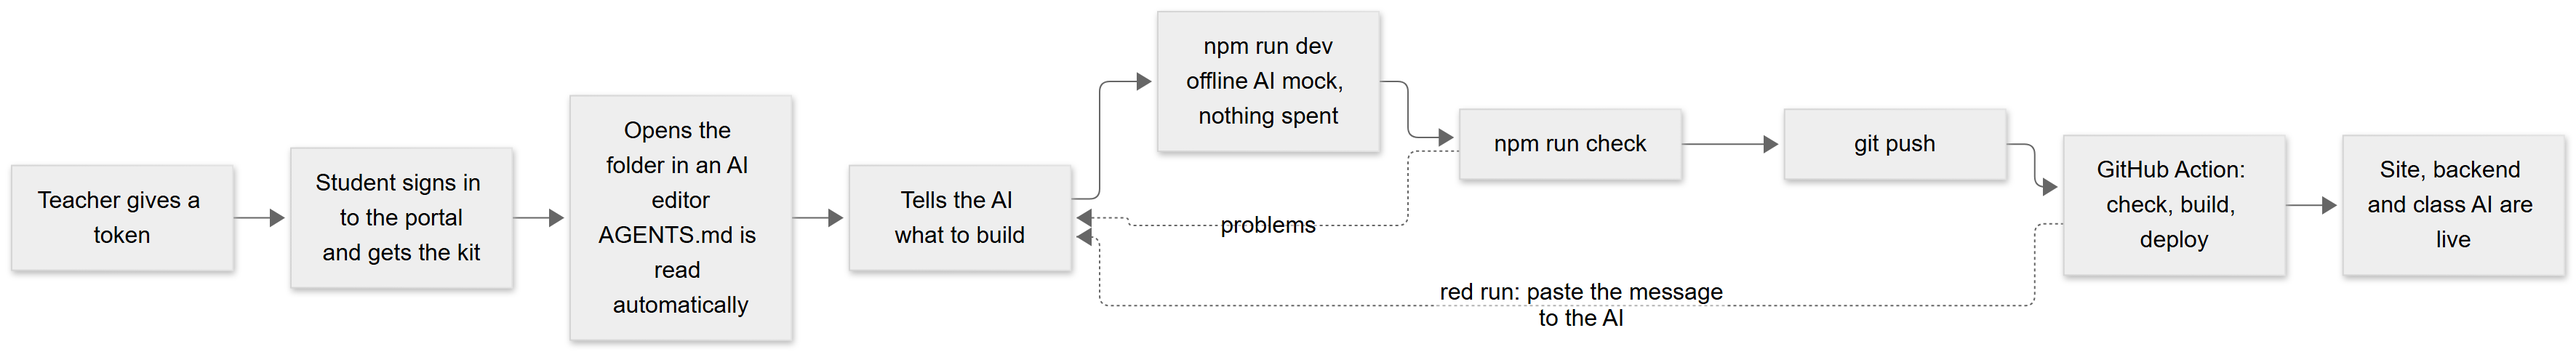
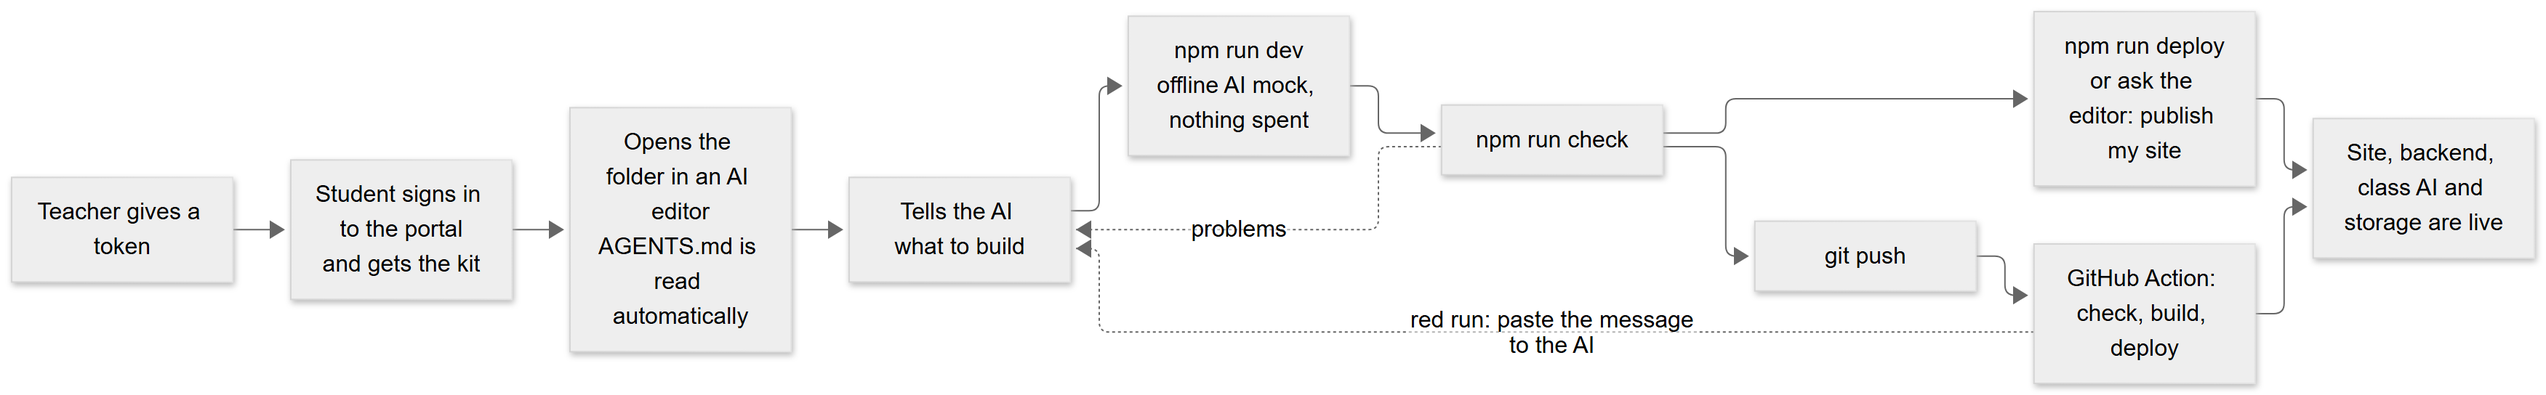
docs: technical specification, API reference, end-to-end guide and student kit guide updated for login, MCP server, deploy without GitHub and class storage

diff --git a/docs/TECHNICAL_SPECIFICATION.md b/docs/TECHNICAL_SPECIFICATION.md
@@ -1,6 +1,6 @@
 # Class Hosting Platform: Technical Specification (Release 1.0, MVP)
 
-> **This is the main technical source of truth for Release 1.0.** If another document, a comment or a message disagrees with it, this document wins and the other one is wrong and must be fixed. The companion documents ([END_TO_END.md](END_TO_END.md), [API_REFERENCE.md](API_REFERENCE.md), [AI_CONNECTOR.md](AI_CONNECTOR.md), [STUDENT_KIT.md](STUDENT_KIT.md), [../implement.md](../implement.md), [../learning.md](../learning.md)) go deeper on one area each. Numbers in section 14 are **machine-checked** against the code by `tests/test_spec.mjs` on every test run.
+> **This is the main technical source of truth for Release 1.0.** If another document, a comment or a message disagrees with it, this document wins and the other one is wrong and must be fixed. The companion documents ([END_TO_END.md](END_TO_END.md), [API_REFERENCE.md](API_REFERENCE.md), [AI_CONNECTOR.md](AI_CONNECTOR.md), [STUDENT_KIT.md](STUDENT_KIT.md), [../implement.md](../implement.md), [../learning.md](../learning.md)) go deeper on one area each. Numbers in section 14 are **machine-checked** against the code by `tests/test_spec.py` on every test run.
 
 ## 0. Document control
 
@@ -13,6 +13,7 @@
 | Student kit | version `1.4.0` (`starter/template/platform.json`), served by the portal as `starter-kit.zip` |
 | Audience | the owner/operator, future maintainers, anyone reviewing the design or the security |
 | Change rule | any change to behaviour, limits, resources or flows updates this document **in the same commit**; the machine-checked block (section 14) fails the test run if a number drifts |
+| Changes since the baseline | **2026-10-24.** Documentation diagrams are PNG images with the Mermaid source collapsed beneath (section 7.1). Student kit **1.2.0** (`npm run login`), **1.3.0** (MCP server for AI editors, `npm run deploy` without GitHub described in section 4.15), **1.3.1** (masked token prompt), **1.4.0** (class storage helpers and sample). **Class storage connector** built (section 4.14), off by default and **not yet deployed to production**. Kit 1.4.0 and the updated portal pages are published; the server side of storage is not. Local suite is now 33 steps. Everything in this row is described in the sections named; the baseline row below is kept as the historical record. |
 | Verification state at baseline | 28 local test steps pass (`node tests/run.mjs`, including the specification check), GitHub CI is green, the live smoke test (`python tests/live_smoke.py`) passes 74 checks against production, and the owner tested the full student journey end to end |
 
 ### How to read this document
@@ -71,6 +72,7 @@ SQL or server databases for students (RDS), server-side rendering, long-running 
 | F11 | Student kit, checker, local dev tools, update command, AI helper | live | `test_kit*.mjs`, `test_class_ai.*`, live smoke section I, AI evaluation |
 | F12 | Operations: alarms, versioning, backups | live | `test_template_ops.py`, live alarm test |
 | F13 | Portal user interface (teacher and student pages) | live | `test_web.mjs`, browser checks |
+| F15 | Student deploy from the computer without GitHub: `npm run login`, `npm run deploy`, and an MCP server for AI editors | **live** in kit 1.3.1 and later; the MCP server is tested by a protocol script, **not yet run inside VS Code or Antigravity by the owner** | `test_portal_cli.mjs`, `test_mcp.mjs`, `test_kit.mjs` |
 | F14 | Class storage connector (capped per-student data and files) | **built, not yet deployed** (needs `StorageEnabled=true`) | `test_storage.py`, `test_class_storage.*`, `test_kit_e2e.mjs`, `test_template_ops.py` |
 
 ---
@@ -183,9 +185,9 @@ flowchart TB
 | Path | Contents |
 |---|---|
 | `template.yaml`, `samconfig.toml` | all AWS resources managed by CloudFormation; the deployed parameter values |
-| `lambda/` | `app.py` (entry, legacy CLI, publish, archive/restore, sweeper), `portal.py` (tokens, sessions, routing for `/api/...`), `backends.py` (student functions), `gateway.py`, `domains.py`, `ai.py`, `openrouter.py` |
+| `lambda/` | `app.py` (entry, legacy CLI, publish, archive/restore, sweeper), `portal.py` (tokens, sessions, routing for `/api/...`), `backends.py` (student functions), `gateway.py`, `domains.py`, `ai.py`, `openrouter.py` Class storage: `storage.py` (rules and the API's logic) and `storage_api.py` (its Lambda handler). |
 | `web/` | portal pages (`index`, `teacher`, `student`) and modules (`teacher.js`, `student.js`, `backend.js`, `github.js`, `common.js`, `check.js`, `backend-check.js`, `zip.js`), `shared.css` |
-| `student/` | files students and the kit use: `portal-deploy.mjs`, `class_ai.py/.mjs`, workflow templates, guides, starter backend templates, legacy `deploy.mjs` |
+| `student/` | files students and the kit use: `portal-deploy.mjs`, `class_ai.py/.mjs`, workflow templates, guides, starter backend templates, legacy `deploy.mjs`; `class_storage.py/.mjs` (the storage helpers) |
 | `starter/` | the student kit: `template/`, `rules/AGENTS.md`, `build-kit.mjs`, `zip.mjs`, `eval/` (AI evaluation) |
 | `admin.mjs` | operator CLI: legacy students, `teacher-setup`, `portal-publish` |
 | `custom-domain/` | the hand-made CloudFront pieces: scripts and reference files |
@@ -648,6 +650,9 @@ flowchart LR
 Enforcement, in four layers: (1) a **working scaffold** in the right layout; (2) **rules** in `AGENTS.md` and identical copies for each editor (`GEMINI.md`, `CLAUDE.md` importing it, a Claude skill, Cursor rules, Copilot instructions, `.windsurfrules`); (3) `npm run check`, about 30 rules that fail the build (layout, backend limits equal to the platform's, non-standard-library imports, syntax errors, AI called from the browser, `localhost` URLs, `VITE_` secrets, tokens and keys in any file, tracked `.env`, missing `.gitignore`); (4) the platform validating every upload server-side.
 
 - **`class_ai`** (Python and Node, single source in `student/`): `ask(prompt, ...)`, `chat(messages, ...)`, `available()`; friendly `AiError` kinds `not_enabled`, `cap_reached` (402 and 403), `disabled` (401), `busy` (429 and 5xx, one retry), `timeout` (20 s default), `provider_error`; `default=` returns a fallback text instead of raising; `mock=` sets the offline mock's reply; offline mock when no key and not on Lambda (`AWS_LAMBDA_FUNCTION_NAME` unset); the key, prompts and answers are never printed or put in errors.
+- **`class_storage`** (Python and Node, single source in `student/`): `put/get/items/delete` and `files.*`; on the platform it uses `CLASS_STORAGE_URL` and `CLASS_STORAGE_KEY`, on the student's computer a git-ignored `.class-storage/` folder; see section 4.14. The sample backend has a `/notes` route that uses it.
+- **Deploying from the computer:** `npm run login` (once) and `npm run deploy`, and the optional MCP server; see section 4.15.
+- **Kit versions:** 1.1.0 (baseline), 1.2.0 `npm run login` and the "Deploying" rules, 1.3.0 MCP server and `.vscode/mcp.json`, 1.3.1 masked token prompt, 1.4.0 class storage.
 - **Local development:** `npm run dev` (site on 3000, backend on 8788; the site forwards `/api`), hot reload for both backends, `npm run doctor`.
 - **Kit delivery:** `node admin.mjs portal-publish` builds `starter-kit.zip` deterministically from `starter/` and publishes it with `kit-version.json`; the student page's **Start here** card offers it with repository deep links and a checklist. An optional public GitHub template repository is pending (12.3).
 - **Update:** `node tools/platform.mjs status|update [--apply] [--force]` touches only the platform-managed files listed in `platform.json`, verifies the zip against the published hash, refuses unsafe paths, protects files the student edited.
@@ -711,6 +716,50 @@ sequenceDiagram
     F->>A: files upload-url name and size
     A-->>F: presigned POST, limited to that size
     F->>D: the bytes go straight to userdata/slug/name
+```
+
+</details>
+<!-- /diagram -->
+
+### 4.15 Deploying from the student's computer: login, deploy and the MCP server (F15)
+
+The GitHub route (section 4.10) is not required. A student can publish from their computer with the same `portal-deploy.mjs`, using the same token, and an AI editor can do it for them.
+
+| Part | Specification |
+|---|---|
+| `npm run login` (`node portal-deploy.mjs login`) | asks for the token with **masked input** (raw keys: the first four characters, `mds_`, then one `*` per character, so the student can see the paste arrived; Backspace, Enter and Ctrl+C work, arrow keys are ignored); piped input is read as one line; checks it with `POST /api/student/login`; writes **only** the `PORTAL_TOKEN` line of `.env.local` and keeps every other line; refuses when `git check-ignore` says `.env.local` is not ignored; never prints the token |
+| `npm run deploy` (`node portal-deploy.mjs`) | the flow of section 4.10; the token comes from `PORTAL_TOKEN`, `.env.local` or `.env`; with no token and a terminal it offers the login prompt, without a terminal it says to run `npm run login` |
+| `node portal-deploy.mjs status` | signs in and reports the token's validity and days left; deploys nothing |
+| A rejected token | 401, 403 or 404 on sign-in gives one message: run `npm run login` with the current token (a regenerated token replaces the old one) |
+| The checker | skips `.env.local` in its secret scan (that is where the token lives) but still errors when git tracks it (`env-committed`) |
+| MCP server (`tools/mcp.mjs`) | newline-delimited JSON-RPC over stdio, dependency-free. Tools: `check_project`, `deploy` (argument `confirm` must be `true`, optional `only`; runs the check first and stops on errors) and `status`. Each runs the project's own scripts with stdin closed and a timeout (check 120 s, deploy 300 s, status 60 s), one deploy at a time; output has ANSI codes removed, `mds_` tokens masked and is capped at 8,000 characters. The token is read from `.env.local`; it is never in the editor's settings |
+| Editor setup | VS Code: the kit ships `.vscode/mcp.json` (newer VS Code versions offer to migrate it to `.mcp.json`; the owner's test showed that prompt). Antigravity: `npm run mcp-config` prints the entry with absolute paths to paste under *Manage MCP Servers, View raw config* |
+| Assistant rules | the kit's "Deploying" section: run the check, ask the student "publish now?", deploy with `confirm=true` only after a yes, read the address back; if the token is missing the student runs `npm run login` themselves; the assistant never reads `.env.local` or asks for the token |
+
+<!-- diagram:f638c537 -->
+![Diagram: 4.15 Deploying from the student's computer: login, deploy and the MCP server (F15)](diagrams/technical-specification/16-4-15-deploying-from-the-student-s-computer-login.png)
+
+<details><summary>Diagram source (Mermaid, editable; GitHub also draws it)</summary>
+
+```mermaid
+sequenceDiagram
+    participant S as Student
+    participant E as AI editor
+    participant M as tools/mcp.mjs
+    participant D as portal-deploy.mjs
+    participant P as Portal API
+    S->>D: npm run login (paste token, masked)
+    D->>P: check the token
+    D->>D: write PORTAL_TOKEN to .env.local (git-ignored)
+    S->>E: publish my site
+    E->>M: check_project
+    M-->>E: check passed
+    E->>S: publish now?
+    S->>E: yes
+    E->>M: deploy with confirm true
+    M->>D: check again, then deploy
+    D->>P: backend, then frontend
+    P-->>E: site live, backend ready
 ```
 
 </details>
@@ -795,6 +844,9 @@ Error shape: JSON `{"error": "<code or message>"}` (gateway errors: `{"error": "
 | Web | `web` | folder checks and zip builder (the zip is validated by the Lambda's own validator), dollar formatting, repository-link parsing |
 | AI helper | Python and Node | errors, retries, mock, key never printed |
 | Student kit | three steps | contents and rule copies, checker rules (about 30 fixtures), local dev servers; `platform update`; end to end deploy of the kit to the whole dev portal in Python and Node |
+| Class storage | three steps | `test_storage.py` (switch and caps, isolation between students, exact quotas, rollback, allowance, files, lifecycle, no key exposed; mutation-tested), the helpers in Python and Node against the real storage API over HTTP (`tests/storage_fixture.py`), and the template (off by default, IAM scope, retained table, private bucket) |
+| Student kit extras | steps | the MCP server driven like an editor (`test_mcp.mjs`: handshake, confirm required, a failing check blocks a deploy, token never echoed); `npm run login` (masked prompt keys, a wrong token saves nothing, the git-ignore guard) inside `test_portal_cli.mjs` |
+| Diagrams | `diagrams` | every Mermaid diagram in the documentation has a current PNG (`docs/diagrams/render.mjs` regenerates; the test needs no browser) |
 | Specification | `specification` | the machine-checked facts in section 14 equal the code |
 | Downloads and CLI | two steps | published files agree with the card; `portal-deploy.mjs` against the dev portal |
 | CloudFront functions | five steps | the real function code is extracted from the template and executed |
@@ -809,7 +861,7 @@ Techniques: in-memory fakes for S3, Lambda, CloudWatch Logs, CloudFront tenants 
 ### 7.3 Release procedure
 
 <!-- diagram:16706a27 -->
-![Diagram: 7.3 Release procedure](diagrams/technical-specification/16-7-3-release-procedure.png)
+![Diagram: 7.3 Release procedure](diagrams/technical-specification/17-7-3-release-procedure.png)
 
 <details><summary>Diagram source (Mermaid, editable; GitHub also draws it)</summary>
 
@@ -862,6 +914,8 @@ Least privilege per role; no standing secrets in students' hands; every limit en
 | Secrets | environment variables write-only; the AI management key readable by two functions through one named-secret statement; student AI keys never in any API response; a test fails on any committed key, token or email |
 | Browser | no HTML parsing of text (DOM helper); no secrets in `web/`; `rel="noopener noreferrer"` on generated links |
 | Supply chain | the kit contains no secrets or personal data (scanned); the update command verifies a hash, accepts only managed paths, refuses unsafe paths; `npm install` scripts are not run on untrusted code during evaluations |
+| Token on a student's computer | stored only in `.env.local`, written by `npm run login` after a git-ignore check; the checker errors if git tracks it; masked while typed; the MCP server and the rules keep it out of chat, logs and editor settings |
+| Class storage | isolation by key (the API builds every database and S3 key from the caller's own key), hard caps and allowance, no AWS permission for any student role, private bucket with short-lived signed links (section 4.14) |
 | Recovery | S3 versioning (30 days), DynamoDB point-in-time recovery, archived sites never auto-deleted |
 
 ### 8.3 IAM at a glance
@@ -952,6 +1006,11 @@ Stop one student's AI or backend with the teacher switches (effective within abo
 | Kit as scaffold + rules + checker + server validation | an AI cannot be trusted to follow prose alone | rules only; injecting code into students' packages |
 | `AGENTS.md` canonical with identical copies | one source, any editor | per-editor rule sets that drift |
 | Deterministic kit zip and manifest | stable hashes and safe updates | timestamps in the zip |
+| Storage isolation by an opaque key and a separate API | all student functions share one role; per-student roles would let the portal create IAM roles and delay every deploy | per-student IAM roles with `LeadingKeys` conditions |
+| DynamoDB and S3 for students, **no RDS** | on-demand, near-zero idle cost; an always-on database costs 20 to 50 times more, needs a private network, and one server would be shared | RDS or Aurora per class or per student |
+| The token is saved by a guarded login command, not typed into files | a mistyped or committed token is the main way to leak access | asking students to create `.env` by hand |
+| MCP server as an optional layer over the same scripts | works for editors that support it without a second implementation; `deploy` needs an explicit yes | MCP as the only path; a custom editor plugin |
+| Documentation diagrams as PNG plus collapsed Mermaid | readable in every viewer; one editable source with a drift test | images only; Mermaid only |
 | Tests drive real code on in-memory AWS | fast, free, deterministic; live smoke covers the rest | mocking at the call level |
 
 ### 12.2 Lessons built into the design (selected)
@@ -972,6 +1031,10 @@ Presigned URLs need a SigV4 client; cfn-lint misses circular dependencies (the c
 | 8 | Custom-domain infrastructure into CloudFormation | known gap, documented |
 | 9 | Several teacher accounts; Content-Security-Policy; "Request more runs" from the student | backlog |
 | 10 | Whether each AI editor actually loads the rule files (agents in the evaluation were told to read `AGENTS.md`) | not verified |
+| 12 | **Deploy the storage connector** (`StorageEnabled=true`), run a live smoke test of presigned file upload and the API throttle, decide whether the data table needs point-in-time recovery, then pilot | open; owner approval needed for the AWS deploy |
+| 13 | **Real-editor check of the MCP server** in VS Code and Antigravity (tested only by a protocol script); VS Code now prefers `.mcp.json` over `.vscode/mcp.json`, so the kit may need to ship `.mcp.json` | open |
+| 14 | **Re-run the AI evaluation** against the kit 1.2 to 1.4 rules (Deploying, class storage) | open |
+| 15 | `platform update` cannot add new `package.json` scripts (the file is the student's); older projects need them added by hand or a fresh kit | known gap |
 | 11 | The kit's GitHub workflow has run on a real runner in the owner's test; a wider pilot will show real-world friction | partly verified |
 
 ---
@@ -995,13 +1058,15 @@ Presigned URLs need a SigV4 client; cfn-lint misses circular dependencies (the c
 | R13 | Kit updates are safe | `tools/platform.mjs`, `starter/zip.mjs` | `test_kit_update.mjs` |
 | R14 | Alerts, recoverable files, backups | `template.yaml` | `test_template_ops.py`, live alarm test |
 | R15 | No secret or email in the repository | tests that scan the repo | `test_template_ai.py`, `test_template_ops.py`, `test_kit.mjs` |
-| R16 | This specification matches the code | section 14 and `tests/test_spec.mjs` | `test_spec.mjs` |
+| R17 | Per-student data and files, capped, isolated, switchable, never exposing a key | `storage.py`, `storage_api.py`, `class_storage.*`, `template.yaml` | `test_storage.py`, `test_class_storage.*`, `test_template_storage.py`, `test_kit_e2e.mjs` |
+| R18 | A student can deploy from their computer with one command, and an AI editor can do it with consent | `portal-deploy.mjs` (`login`, `status`), `tools/mcp.mjs`, `.vscode/mcp.json` | `test_portal_cli.mjs`, `test_mcp.mjs`, `test_kit.mjs` |
+| R16 | This specification matches the code | section 14 and `tests/test_spec.py` | `test_spec.py` |
 
 ---
 
 ## 14. Machine-checked facts
 
-`tests/test_spec.mjs` reads the JSON block below and compares every value with the code and the template. If you change a limit, a timeout, a default, the kit version or the number of test steps, update this block **and** the prose above in the same commit.
+`tests/test_spec.py` reads the JSON block below and compares every value with the code and the template. If you change a limit, a timeout, a default, the kit version or the number of test steps, update this block **and** the prose above in the same commit.
 
 ```json spec-facts
 {

diff --git a/docs/END_TO_END.md b/docs/END_TO_END.md
@@ -190,6 +190,21 @@ Many students have no AI key. The teacher can give a student's **backend** an AI
 
 Good to know (measured live): OpenRouter counts usage a few seconds to about half a minute late, so a cap can be overshot slightly; the usage meter on the student page lags the same way (it refreshes every 60 s, the server caches 20 s); a capped-out key answers **HTTP 403 "Key limit exceeded"**; a disabled key answers 401. The free `:free` models are shared with everyone on OpenRouter and returned 429 in every test, so the paid model is the default. A key can call **any** OpenRouter model, so the dollar cap, not a model list, is the control.
 
+### 3.3b Class storage connector (optional, teacher-controlled)
+
+> Architecture, limits, cost and security: **[STORAGE_CONNECTOR.md](STORAGE_CONNECTOR.md)** (and section 4.14 of the specification).
+
+Apps need to remember things. The teacher can give a student's **backend** a small private database and file area, with hard caps, so nothing has to be set up and nothing can grow without limit. It is off for everyone until the owner deploys it (`StorageEnabled`) and the teacher switches it on per student.
+
+1. Teacher page: **Storage: on** for a student who has the Backend on (their function gets `CLASS_STORAGE_URL` and `CLASS_STORAGE_KEY`). **Storage caps...** edits the database size (default 5 MB), file space (50 MB) and the operations allowance (10,000 per day). The row shows usage. **Storage: off** stops access at once; the data is kept.
+2. The student's Backend card gets a **Class storage** section: three meters (database, files, operations), a code example in their language and the rules.
+3. In code: `import class_storage as storage`, then `storage.put("scores", "alice", {...})`, `storage.get(...)`, `storage.items("scores")`, `storage.delete(...)`, `storage.files.put(...)`. The kit's sample backend has a `/notes` route. It is not SQL: records are listed by id.
+4. A revoked, expired or offline token pauses storage; going over a cap or the allowance returns a clear error the student's code can show.
+
+### 3.3c Student: deploying from the computer (no GitHub)
+
+GitHub is optional. With the kit (1.3 and later): `npm run login` once (paste the token; it shows `mds_` and one `*` per character, is checked against the portal and saved in the git-ignored `.env.local`), then `npm run check` and `npm run deploy` after each change. In VS Code or Antigravity the student can instead say "publish my site": the kit's MCP server (`tools/mcp.mjs`) runs the check, the assistant asks for a yes, then deploys. VS Code reads the kit's `.vscode/mcp.json`; for Antigravity `npm run mcp-config` prints the entry to paste. If the token is rejected or expired, `npm run login` again. The GitHub route and this route use the same token and the same `portal-deploy.mjs`.
+
 ### 3.4 Student: adding a custom domain (**Custom domain** card)
 
 Requires **Domain: on** from the teacher.
@@ -308,6 +323,13 @@ The bucket name is the physical id of `SitesBucket` in the stack. Pages already 
 3. Set `AiEnabled="true"` in `samconfig.toml` (the secret name, default model and default cap have parameters too), run the safe deploy routine, then `node admin.mjs portal-publish`.
 4. Teacher page: **AI: on** for a student with the Backend on. Verify with `python tests/live_smoke.py` (section H creates one temporary $0.01 key and deletes it).
 
+### 4.5d Class storage setup (once)
+
+1. Run the safe deploy routine with the extra parameter `StorageEnabled="true"` (add it to `parameter_overrides` in `samconfig.toml` when you are happy). Read the change set first: it should create `StudentDataTable`, `StorageApi`, `StorageFunction` and, with alerts, `StorageErrorsAlarm`, add a CORS rule on the bucket, and change `DeployFunction` only by adding `STORAGE_URL`. Nothing existing should be replaced.
+2. `node admin.mjs portal-publish` (the kit then contains the helpers; the pages already tolerate a server without storage).
+3. Teacher page: **Storage: on** for one test student, deploy the kit's sample backend as that student and call its `/notes` route. Check an upload and a download link once, because presigned file transfer is the one part the local tests cannot exercise.
+4. Do not set `StorageEnabled` back to `false` while students hold data: the table is retained but nothing serves it.
+
 Rotate: create a new management key, update the secret (the functions re-read it within 5 minutes), delete the old key at OpenRouter. The keys the platform makes are named `student:<slug>`.
 
 ### 4.6 Limits at a glance
@@ -370,6 +392,11 @@ Known residual risks: a student's public `/api` can be called by anyone, so stra
 
 | Symptom | Likely cause | Fix |
 |---|---|---|
+| `npm run login` says the token is not accepted | mistyped, expired, or replaced by a regenerated token | paste the current token; ask the teacher if unsure |
+| `npm run login` says `.env.local` is not ignored by git | the project's `.gitignore` lacks `.env.*` | add `.env` and `.env.*` to `.gitignore` (`npm run check` explains) |
+| The editor's tool server does not start | the editor does not support MCP, or the path is wrong | VS Code: start it from the Chat view in Agent mode; Antigravity: run `npm run mcp-config` and paste the entry; otherwise use `npm run deploy` |
+| Storage calls answer `not_enabled` | the teacher has not switched storage on for this student | ask the teacher; the data of an earlier session is kept |
+| Storage answers `allowance_used` or `quota_exceeded` | the operations allowance or a size cap is full | wait for the reset, delete data, or the teacher raises the caps |
 | "Teacher account is not set up yet" | the SSM entry is still `{}` | `node admin.mjs teacher-setup <name>` |
 | "Too many failed attempts" | 5 wrong passwords from one address | wait 15 minutes, or delete the `fail#<ip>` item |
 | Upload fails with a network error and a CORS note in the console | page opened on an address other than `https://deploy.margdarshakss.com` | use the real portal address |
@@ -401,6 +428,8 @@ A response from the platform's gateway is always JSON `{"error": "<code>"}`. An 
 ## 8. Costs
 
 The AI connector spends the OpenRouter credit: with Haiku 5.5 a typical answer (about 1,000 tokens in, 500 out) costs about $0.00035, so the default $0.25 cap per student is roughly 700 answers. Prices change: check OpenRouter. The per-student cap and the account credit balance bound the spend.
+
+Class storage adds only on-demand DynamoDB, S3 and a small Lambda. With the default caps a student stores at most 5 MB of records and 50 MB of files, and 10,000 operations a day, so it stays within cents per active student per month; an idle class costs close to nothing. It is bounded by the caps and the allowance, not by a budget. See [STORAGE_CONNECTOR.md](STORAGE_CONNECTOR.md) section 7.
 
 Pay-per-use services (CloudFront, Lambda, API Gateway, DynamoDB on demand, S3): a class costs a few cents to a few dollars a month. The run allowance bounds backend compute per student (the default 5,000 runs of at most 10 s at 256 MB is roughly $0.17 per student per month at the very worst, approximate). Custom-domain tenant pricing is **not verified**: a community report says the first 10 tenants are free; check the billing console. Cost alerts come from the account's own AWS Budget (not managed here); error alarms are in section 4.5a. Versioned buckets keep old versions for 30 days, which adds a small storage cost.
 

diff --git a/docs/STUDENT_KIT.md b/docs/STUDENT_KIT.md
@@ -8,7 +8,7 @@ Companion to [END_TO_END.md](END_TO_END.md), [AI_CONNECTOR.md](AI_CONNECTOR.md) 
 
 ## 1. The student's journey
 
-<!-- diagram:efd1efa7 -->
+<!-- diagram:93a2ef86 -->
 ![Diagram: 1. The student's journey](diagrams/student-kit/01-1-the-student-s-journey.png)
 
 <details><summary>Diagram source (Mermaid, editable; GitHub also draws it)</summary>
@@ -20,17 +20,19 @@ flowchart LR
   C --> D[Tells the AI what to build]
   D --> E[npm run dev<br/>offline AI mock, nothing spent]
   E --> F[npm run check]
-  F --> G[git push]
-  G --> H[GitHub Action: check, build, deploy]
-  H --> I[Site, backend and class AI are live]
+  F --> G[npm run deploy<br/>or ask the editor: publish my site]
+  F --> H[git push]
+  H --> J[GitHub Action: check, build, deploy]
+  G --> I[Site, backend, class AI and storage are live]
+  J --> I
   F -. problems .-> D
-  H -. red run: paste the message to the AI .-> D
+  J -. red run: paste the message to the AI .-> D
 ```
 
 </details>
 <!-- /diagram -->
 
-In words: sign in, get the kit, open it in an AI editor, describe the app, try it locally, check, push. Two ways to publish, same result. **From the computer, no GitHub:** `npm run login` once (asks for the token (while pasting it shows `mds_` and one `*` per character, so the student can see it arrived), checks it with the portal, saves it in the git-ignored `.env.local`; it refuses to write if git would not ignore that file), then `npm run deploy` after each change. **From GitHub:** add the token as the repository secret `PORTAL_TOKEN` (the portal gives deep links); after that every push to `main` deploys. **Or ask the AI editor (MCP):** `tools/mcp.mjs` is a dependency-free MCP server with three tools, `check_project`, `deploy` (check first, refuses on errors, needs `confirm=true` which the assistant may only send after the student agrees) and `status`; it just runs the project's own `tools/check.mjs` and `portal-deploy.mjs`. VS Code reads the kit's `.vscode/mcp.json` (start the server from the Chat view in Agent mode); Antigravity takes the snippet that `npm run mcp-config` prints, with absolute paths, pasted under *Manage MCP Servers > View raw config*. The token is not in the editor settings: the server reads the `.env.local` that `npm run login` wrote. Not covered by automation: a real run inside each editor (the server is tested by a script that speaks the protocol). The AI-editor rules have a "Deploying" section: check, deploy, read the address back; if there is no token or it is not accepted, the student runs `npm run login` themselves (the assistant never runs it, reads `.env.local` or asks for the token).
+In words: sign in, get the kit, open it in an AI editor, describe the app, try it locally, check, then publish by command, by asking the editor, or by pushing to GitHub. Two ways to publish, same result. **From the computer, no GitHub:** `npm run login` once (asks for the token (while pasting it shows `mds_` and one `*` per character, so the student can see it arrived), checks it with the portal, saves it in the git-ignored `.env.local`; it refuses to write if git would not ignore that file), then `npm run deploy` after each change. **From GitHub:** add the token as the repository secret `PORTAL_TOKEN` (the portal gives deep links); after that every push to `main` deploys. **Or ask the AI editor (MCP):** `tools/mcp.mjs` is a dependency-free MCP server with three tools, `check_project`, `deploy` (check first, refuses on errors, needs `confirm=true` which the assistant may only send after the student agrees) and `status`; it just runs the project's own `tools/check.mjs` and `portal-deploy.mjs`. VS Code reads the kit's `.vscode/mcp.json` (start the server from the Chat view in Agent mode); Antigravity takes the snippet that `npm run mcp-config` prints, with absolute paths, pasted under *Manage MCP Servers > View raw config*. The token is not in the editor settings: the server reads the `.env.local` that `npm run login` wrote. Not covered by automation: a real run inside each editor (the server is tested by a script that speaks the protocol). The AI-editor rules have a "Deploying" section: check, deploy, read the address back; if there is no token or it is not accepted, the student runs `npm run login` themselves (the assistant never runs it, reads `.env.local` or asks for the token).
 
 ## 2. What is in the kit
 
@@ -123,6 +125,8 @@ Two lines in the student's backend: `from class_ai import ask` / `answer = ask("
 | Test | What it proves |
 |---|---|
 | `tests/test_class_ai.py`, `test_class_ai.mjs` | the helper in both languages: success, every error kind, retries, timeout, mock, `default=`, no key or prompt in any output |
+| `tests/test_mcp.mjs` | the MCP server driven like an editor: handshake, tool list, `deploy` refuses without `confirm=true`, a failing check blocks a deploy, a real backend deploy, the token never in any output, a rejected token explained |
+| `tests/test_portal_cli.mjs` (login part) | `npm run login`: a valid token is saved to `.env.local` and never printed, a wrong one saves nothing, other lines are kept, the git-ignore guard, the masked prompt keys |
 | `tests/test_class_storage.py`, `test_class_storage.mjs` | the storage helper in both languages against the real storage API: data, files (multipart, file last), every error kind, the local folder, no key in any error |
 | `tests/test_kit.mjs` | kit contents; all rule copies identical; single-source files identical; no secrets or personal data; limits equal the platform's; each checker rule fires on a deliberate mistake (about 30 fixtures) and stays quiet on comments and placeholders; both dev servers run with hot reload and the AI mock |
 | `tests/test_kit_update.mjs` | `platform status` and `update` against the dev portal: current projects, older kits (dry run writes nothing, `--apply` updates only managed files, student code untouched), edited files protected, deleted files restored; hostile portals (wrong hash, unsafe path, extra files) |

diff --git a/docs/API_REFERENCE.md b/docs/API_REFERENCE.md
@@ -77,6 +77,19 @@ Class AI connector (needs `AiEnabled`; see END_TO_END.md section 3.3a). Body, an
 
 An empty body refreshes the usage numbers. → `200 { "token": <view> }`. `400` invalid value; `409` the student's function is updating (repeat the same request); `502` OpenRouter refused; `503` the connector is not set up.
 
+### `POST /api/admin/tokens/{id}/storage`
+Class storage connector (needs `StorageEnabled`; see [STORAGE_CONNECTOR.md](STORAGE_CONNECTOR.md)). Body, any of:
+
+| Field | Type | Notes |
+|---|---|---|
+| `enabled` | boolean | ON makes the student's storage key once (kept afterwards) and sets `CLASS_STORAGE_URL` and `CLASS_STORAGE_KEY` on the function; OFF removes them and stops all storage access at once (the data is kept) |
+| `data_mb` | integer 1 to 100 | database size cap; default 5 |
+| `files_mb` | integer 1 to 500 | file space cap; default 50 |
+| `ops_limit` | integer 0 to 1,000,000 | operations allowed per `ops_period`; default 10,000 |
+| `ops_period` | `"day"`, `"month"` or `"total"` | when the allowance resets; default `"day"` |
+
+→ `200 { "token": <view> }`. `400` invalid value; `409` the student's function is updating (repeat the same request); `503` the connector is not set up. An empty body changes nothing.
+
 `{id}` is the token's `id` (a 64-character hex string) from the token view.
 
 ---
@@ -114,6 +127,10 @@ Flow: `upload-url`, then `PUT` the zip bytes to `uploadUrl` (no extra headers ne
 ### Class AI usage
 
 `GET /api/student/ai` returns `200 { "token": <view> }` with fresh usage (read from OpenRouter, cached 20 s). The student page asks once a minute.
+
+### Class storage usage
+
+`GET /api/student/storage` returns `200 { "token": <view>, "files": { "count": 3, "bytes": 123456 } | null }`. `files` is counted by listing the student's folder (so it is not part of every view) and is `null` when storage is off for the student.
 
 ### Backend
 
@@ -179,6 +196,16 @@ Returned by almost every route above (`token`, `item`, or inside lists).
 ```
 The key itself is never returned. `approx_calls` is shown only for the default model. While the connector is on, the three `env_names` are reserved: `PUT`/`DELETE` of them on the backend env routes answer `400`.
 
+`storage` (always present; `{ "available": false }` when the connector is not deployed):
+```json
+"storage": { "available": true, "enabled": true,
+             "limits": { "data_mb": 5, "files_mb": 50, "ops_limit": 10000, "ops_period": "day",
+                         "max_value_kb": 64, "max_items": 5000, "max_file_mb": 5, "max_files": 100 },
+             "env_names": ["CLASS_STORAGE_URL", "CLASS_STORAGE_KEY"],
+             "usage": { "data_bytes": 1234, "items": 12, "ops_used": 87, "resets_at": 1792684800 } }
+```
+The storage key is never returned. While the connector is on, the two `env_names` are reserved like the AI names.
+
 `status` meaning: `active` until `expires_at`; `expired` (read-only) until `offline_at`; then `offline`. An archived site counts as `offline`. When the backend feature is not deployed, `backend` is just `{ "available": false }`.
 
 ---
@@ -230,3 +257,35 @@ Anything else (status codes, bodies, headers) comes from the student's own funct
 
 ### Settings cache
 The gateway re-reads a student's settings at most every 10 seconds, and a site **without** a ready backend for at most 2 seconds, so a freshly deployed backend is served within about 2 seconds and a toggle change takes effect within about 10 seconds.
+
+---
+
+## 6. Storage API (called by student functions, not by browsers)
+
+Base address: `CLASS_STORAGE_URL` (an API Gateway address of its own). Every request carries `Authorization: Bearer <CLASS_STORAGE_KEY>` (`cs_<slug>.<secret>`). The student helpers `class_storage.py` and `class_storage.mjs` make these calls; the rules and limits are in [STORAGE_CONNECTOR.md](STORAGE_CONNECTOR.md) and section 4.14 of the specification. Every call, successful or not, counts as one operation.
+
+| Route | Body or query | Answer |
+|---|---|---|
+| `PUT /v1/data/{collection}/{id}` | `{"value": <any JSON, up to 64 KB>}` | `200 {"id", "bytes"}` |
+| `GET /v1/data/{collection}/{id}` | | `200 {"id", "value", "updated_at"}`; `404 not_found` |
+| `DELETE /v1/data/{collection}/{id}` | | `200 {"deleted": true\|false}` |
+| `GET /v1/data/{collection}` | `?limit=1..100&after=<id>` | `200 {"items": [{"id", "value", "updated_at"}], "next": "<id>"\|null}`, ordered by id, at most about 400 KB per answer |
+| `POST /v1/files/upload-url` | `{"name", "size", "content_type"?}` | `200 {"url", "fields", "max_bytes", "expires_in"}`: a presigned S3 POST (send every field, then the file as the **last** field, as `multipart/form-data`) |
+| `GET /v1/files` | | `200 {"files": [{"name", "size", "updated_at"}]}` |
+| `GET /v1/files/{name}` | | `200 {"url", "expires_in"}` (a 5-minute download link); `404 not_found` |
+| `DELETE /v1/files/{name}` | | `200 {"deleted": true}` |
+
+Names: collection `[a-z0-9_-]{1,40}`; id `[A-Za-z0-9._-]{1,128}`; file name `[A-Za-z0-9._-]{1,100}` (no folders).
+
+Errors are JSON `{"error": "<code>", "message": "..."}`:
+
+| HTTP | `error` | Meaning |
+|---|---|---|
+| 401 | `bad_key` | missing, malformed or wrong key |
+| 403 | `token_inactive` | the student's token is expired, revoked or offline |
+| 403 | `not_enabled` | the teacher has switched storage off for this student |
+| 429 | `allowance_used` | the operations allowance is used up until it resets |
+| 413 | `quota_exceeded` | the database size, the item count, the file space or the file count is full |
+| 413 | `too_large` | a value, a request body or a file is over its size limit |
+| 400 | `bad_request` | a name, id, size or content type is not allowed, or the body is not valid |
+| 404 | `not_found` | no such item or file, or an unknown route |
